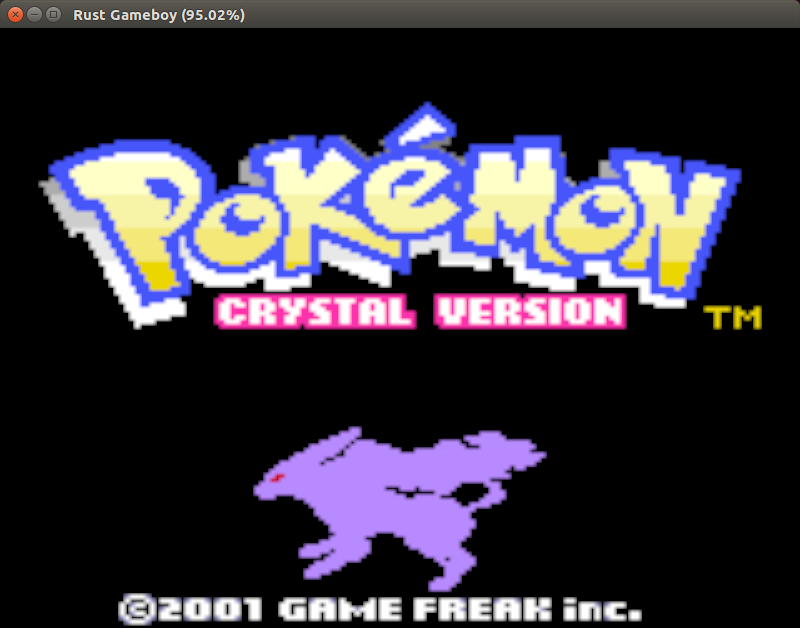
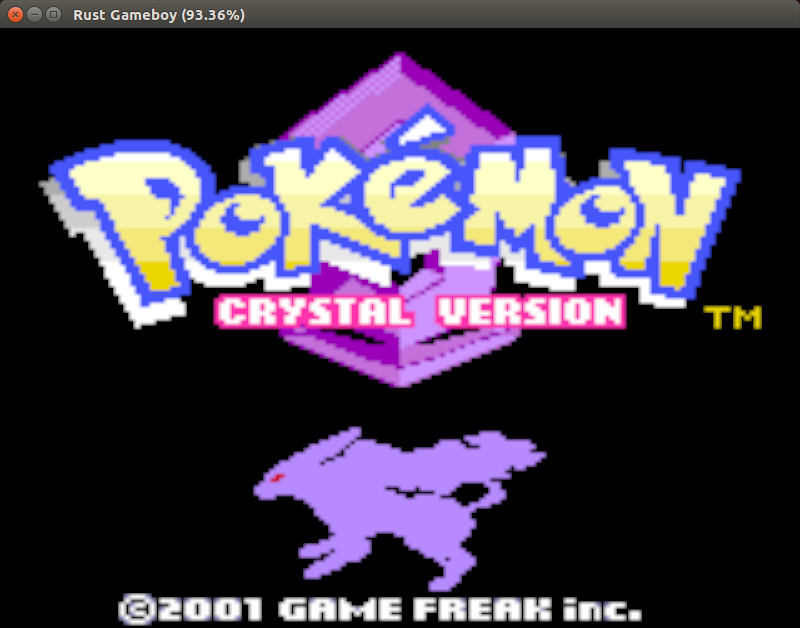
fixed background priority bug

Changed region(s): [[0.3438, 0.3933, 0.6562, 0.6354], [0.3438, 0.0605, 0.6562, 0.2723], [0.25, 0.0, 0.2812, 0.0303]]

diff --git a/src/emulator/gpu.rs b/src/emulator/gpu.rs
@@ -22,13 +22,6 @@ impl Color {
 			_ => None,
 		}
 	}
-	fn is_white(&self) -> bool {
-		match *self {
-			Color::WHITE => true,
-			Color::CGB(255, 255, 255) => true,
-			_ => false
-		}
-	}
 
 	fn from_gb_palette(id: u8, palette: u8) -> Color {
 		let (hi, lo) = (2*id+1, 2*id);
@@ -186,7 +179,7 @@ impl Gpu {
 
 		if !using_window && control & 1 == 0 {
 			for pixel in 0..160u8 {
-				self.screen_data[line as usize][pixel as usize] = Color::WHITE;
+				self.bg_priority[line as usize][pixel as usize] = 0;
 			}
 			return;
 		}
@@ -249,16 +242,10 @@ impl Gpu {
 			}				
 		}
 	}
-	fn get_bg_color_id(&self, line: usize, pixel: usize) -> u8 {
-		(self.bg_priority[line][pixel] & 0x06) >> 1
-	}
-	fn get_bg_priority(&self, line: usize, pixel: usize) -> bool {
-		self.bg_priority[line][pixel] & 1 > 0
-	}
 	fn bg_has_priority(&self, mem: &Memory, line: usize, pixel: usize, behind_bg: bool) -> bool {
 		mem.rb(0xFF40) & 1 > 0 &&
-		(self.get_bg_priority(line, pixel) ||
-			(behind_bg && self.get_bg_color_id(line, pixel) > 0))
+		(self.bg_priority[line][pixel] & 1 > 0 || behind_bg) &&
+		self.bg_priority[line][pixel] > 1
 	}
 	fn draw_sprites(&mut self, mem: &Memory, cgb_mode: bool) {
 		let control = mem.rb(0xFF40);
@@ -301,7 +288,7 @@ impl Gpu {
 					};
 
 					let behind_bg = attributes & (1 << 7) > 0;
-					if !color.is_white() {
+					if color_id != 0 {
 						let pixel = if x_flip {
 							x_pos.wrapping_add(color_bit)
 						} else {
